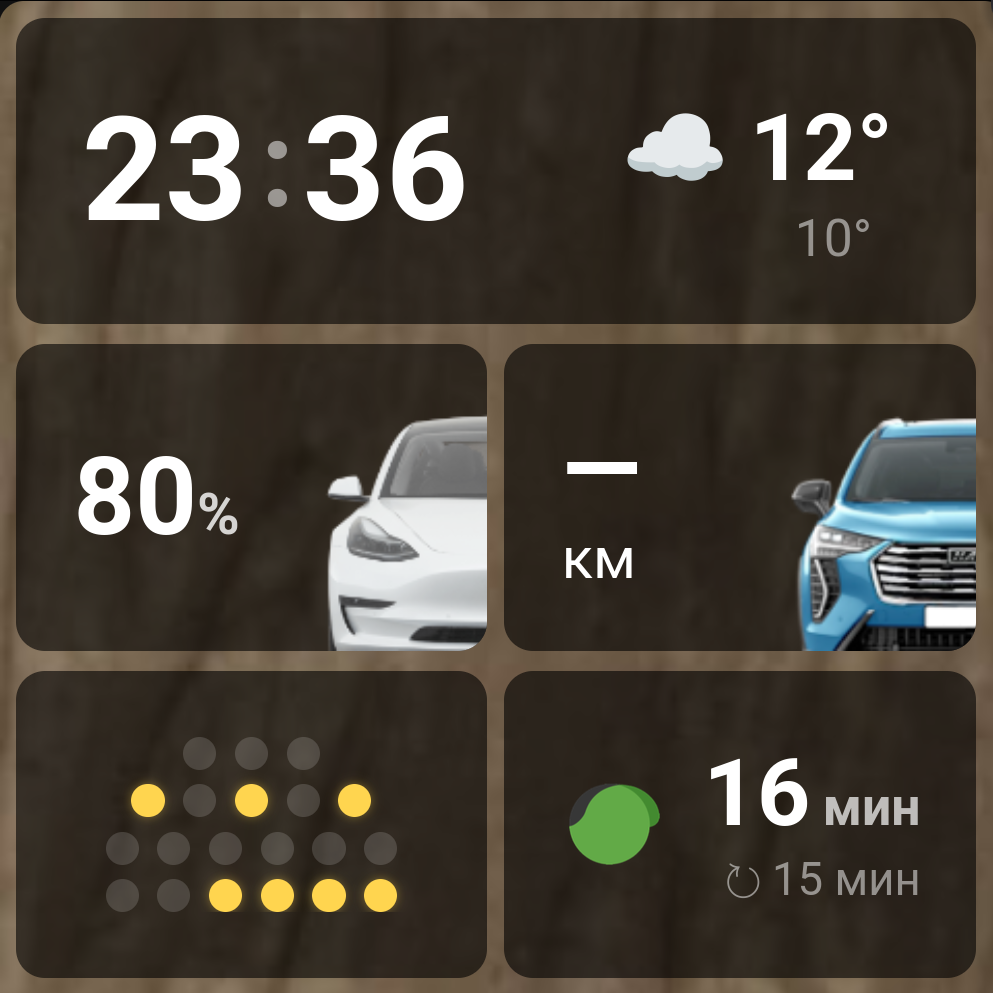
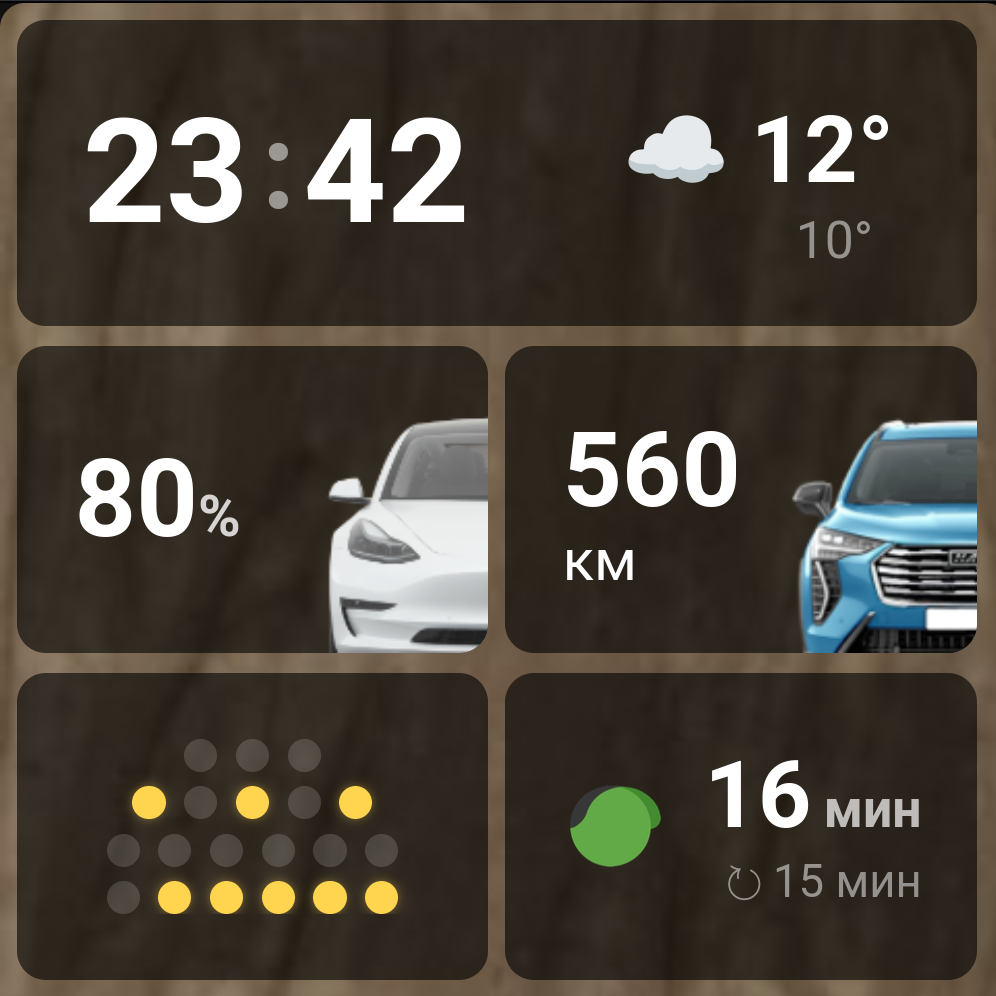
Update dashboard screenshots and document camera proxy

diff --git a/README.md b/README.md
@@ -33,7 +33,7 @@ Most visual components use `custom:button-card`. Its `template` property lets a 
 
 - **House overview:** `tablet/templates/common/main.yaml` puts three floor temperatures over a house illustration. Heating and cooling change their colors; presence dots follow phone-derived floor sensors; blue drops appear beside floors inferred to be using water. The water inference itself is supplied by Home Assistant entities outside this repository.
 - **Weather:** the large tablet widget renders current conditions and two later forecast slots. The NSPanel shows a clock, current weather, and the roughly six-hour forecast. Both read attributes of a custom `sensor.weather_forecast_extra` entity, so the forecast data must be provided separately.
-- **Camera tile:** `tablet/templates/common/camera.yaml` shows the camera that last detected motion and lets a tap cycle through cameras. A separate automation writes the camera ID to an `input_text` helper. The NSPanel replaces its normal grid with a doorbell camera when `input_boolean.doorbell_on_dashboard` turns on.
+- **Camera tile:** `tablet/templates/common/camera.yaml` shows the camera that last detected motion and lets a tap cycle through cameras. Camera images come through [simple-camproxy](https://github.com/spinogrizz/simple-camproxy), a separate project; its image URLs are used by the tablet camera tile and the NSPanel doorbell view. A Home Assistant automation writes the last camera ID to an `input_text` helper. The NSPanel replaces its normal grid with the doorbell image when `input_boolean.doorbell_on_dashboard` turns on.
 - **One-tap corrections:** the dog card combines feeding timestamps and outside status; tapping it updates the relevant helper when the detected state is wrong. This is a useful pattern when camera or motion detection can miss an event.
 - **Status and control together:** vehicle tiles display charge or fuel range and offer climate or engine actions; media tiles show the TV and receiver state and call a Home Assistant script for source presets. The script implementations are not in this repository.
 - **Responsive to imperfect data:** vehicle range and charge tiles use a long dash for unavailable readings. The vacuum card hides its battery value when the integration cannot provide a valid number.
